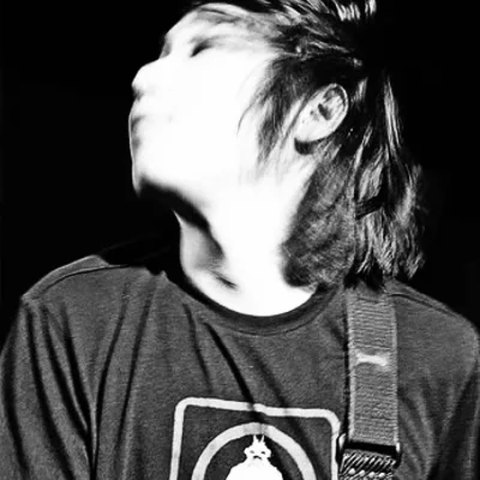
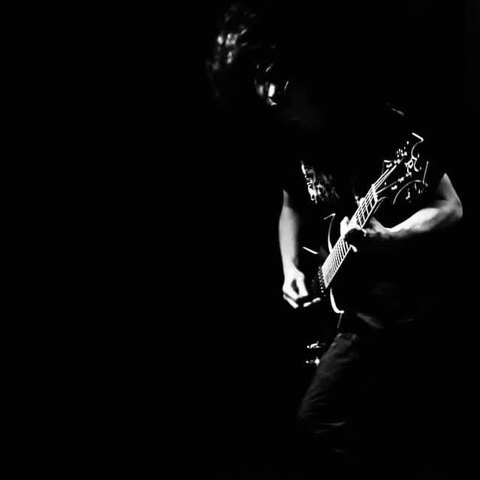
라인업 소개 전원 원문 대조 — ZSTHYGER 정정, 삼각전파사·최양다음 오류 수정
ZSTHYGER 소개가 허위였던 원인은 검색 엔진 요약을 원문 확인 없이 옮긴 것이다.
같은 방식으로 쓴 다른 소개가 더 있는지 전원을 출처 원문과 대조했고, 두 건이
더 틀렸다.

ZSTHYGER — 본인이 속한 경기아트콜렉티브 협동조합 프로필에서 다시 씀:
  "전자음악·메탈·클래식을 아우르는 연주자이자 프로듀서. 수원에서 ACME
  스튜디오를 운영하며 '악기와 악사의 가치를 증명하는 방법은 연주뿐'이라는
  태도로 작업합니다." (ggac.kr/artists/acmein)
  사진도 합동 사진에서 잘라낸 것을 버리고 본인 협동조합 프로필 사진으로 교체

삼각전파사 — '로파이 전자음악 밴드'가 아니다. 전자음악가이자 SF 작가
  장호진의 솔로 프로젝트다. '2015년부터', '1980년대 민중음악을 신디사이저의
  언어로'도 원문에 없다. 강정캠프 원문 기준으로 다시 씀

최양다음 NEXT — '독학으로 음악을 익힌'은 근거가 없다(검색 요약). 본인 인스타
  소개에 있는 것만 남김

김동산 — 별명 표기를 출처와 맞춤(우디 거스리 → 우디거스리)

원문과 일치 확인: 김동산과 블루이웃·길가는밴드 장현호·자이.
주최 측이 주신 자료(마쓰모토 코타·박지휘·경하와 세민)는 대조 대상이 아니다.

검증: 실화면 9팀 전수 확인, 옛 허위 표현 6종 잔여 0, 가드 45/45, lint·build 통과.

diff --git a/website/src/lib/concert.ts b/website/src/lib/concert.ts
@@ -125,7 +125,7 @@ export const FEAST_LINEUP: FeastArtist[] = [
     photo: "/images/concert/artists/kimdongsan.jpg",
     photoCredit: "강정피스앤뮤직캠프",
     blurb:
-      "수원의 포크·블루스 음악가 김동산과 밴드 블루이웃. 해고 노동자와 쫓겨나는 상인들의 이야기를 노래해 ‘한국의 우디 거스리’로 불립니다.",
+      "수원의 포크·블루스 음악가 김동산과 밴드 블루이웃. 해고 노동자와 쫓겨나는 상인들의 이야기를 노래해 ‘한국의 우디거스리’로 불립니다.",
     source: "https://peaceandmusic.net/album/musicians/3",
   },
   {
@@ -155,8 +155,8 @@ export const FEAST_LINEUP: FeastArtist[] = [
     photo: "/images/concert/artists/samgak.jpg",
     photoCredit: "강정피스앤뮤직캠프",
     blurb:
-      "2015년부터 활동해온 로파이 전자음악 밴드. 1980년대 민중음악을 신디사이저의 언어로 다시 씁니다. 첫 정규 「Dystopia 2025」.",
-    source: "https://bbs.ruliweb.com/news/read/209283",
+      "전자음악가이자 SF 작가 장호진의 솔로 프로젝트. 예측 불가능한 사운드와 비선형적 작곡으로 한국 사회의 구조적 모순을 담습니다. 2025년 정규 1집 「디스토피아 2025」.",
+    source: "https://peaceandmusic.net/camps/2026/musicians/34",
   },
   {
     name: "자이",
@@ -170,18 +170,16 @@ export const FEAST_LINEUP: FeastArtist[] = [
     name: "최양다음 NEXT",
     photo: "/images/concert/artists/next.jpg",
     photoCredit: "주최 측 제공",
-    blurb: "독학으로 음악을 익힌 싱어송라이터. 여러 나라 말로 노래합니다.",
+    blurb: "싱어송라이터. 이름을 여러 나라 말로 씁니다 — 다음, NEXT, 次, Nächste, 翌.",
     source: "https://www.instagram.com/nextisnexttoyou/",
   },
   {
     name: "ZSTHYGER",
-    // 강정캠프의 「Sight X Zsthyger」 합동 사진에서 기타를 든 오른쪽을 잘랐다.
-    // 왼쪽은 비트박서 Sight — 두 사람의 악기가 달라 구분이 가능했다.
     photo: "/images/concert/artists/zsthyger.jpg",
-    photoCredit: "강정피스앤뮤직캠프",
-    // 소개는 비워둔다. 종전 문구("2018년부터 홍대…컨트리 블루스…현대의 고딕")는
-    // 검색 결과 요약을 원문 확인 없이 옮긴 것이고, 사실이 아니라고 본인이 알려왔다.
-    // 확인된 자료를 받기 전까지 채우지 않는다.
+    photoCredit: "경기아트콜렉티브",
+    blurb:
+      "전자음악·메탈·클래식을 아우르는 연주자이자 프로듀서. 수원에서 ACME 스튜디오를 운영하며 ‘악기와 악사의 가치를 증명하는 방법은 연주뿐’이라는 태도로 작업합니다.",
+    source: "https://ggac.kr/artists/acmein",
   },
 ];
 
